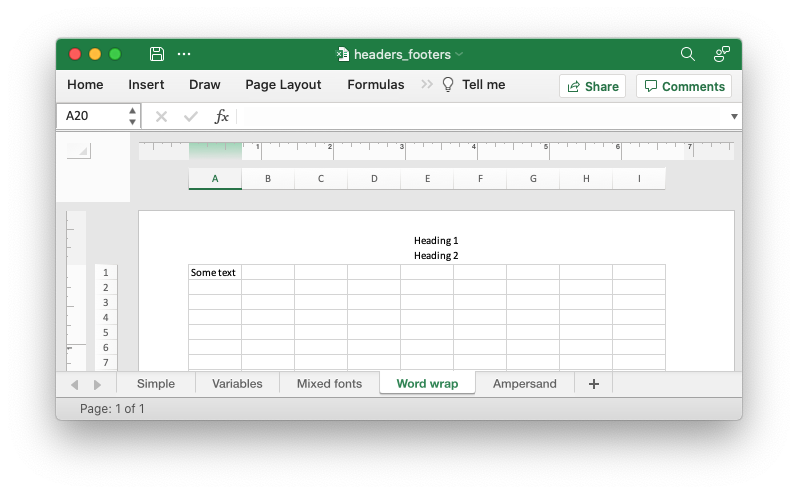
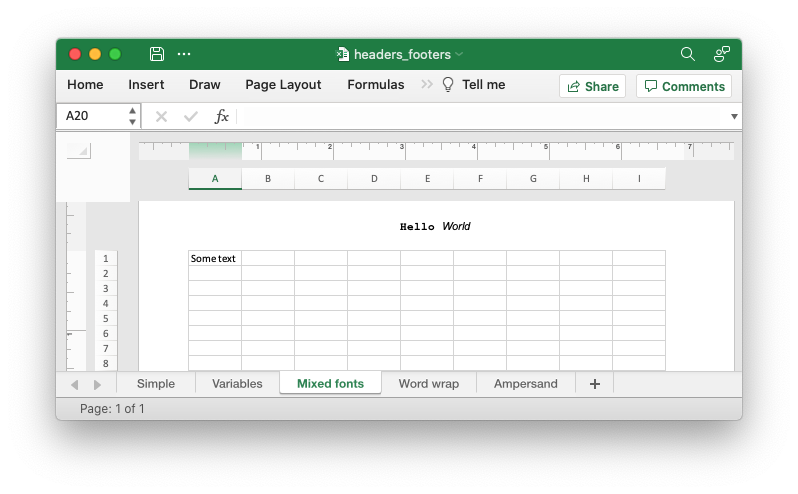
update docs

Changed region(s): [[0.1504, 0.3947, 0.9323, 0.8198], [0.1203, 0.668, 0.1504, 0.7287], [0.1203, 0.5162, 0.1504, 0.5466]]

diff --git a/src/examples/headers.md b/src/examples/headers.md
@@ -4,13 +4,16 @@
 This program shows several examples of how to set up worksheet headers and footers.
 
 
-Here are some examples from the code and the relevant Excel output:
+Here are some examples from the code and the relevant Excel output.
+
+Some simple text:
 
 ```rust
 {{#rustdoc_include ../../../rust_xlsxwriter/examples/app_headers_footers.rs:24}}
 ```
 ![Image 1 of output from app_headers_footers.rs](../../images/app_header_example1.png)
 
+An example with variables:
 
 ```rust
 {{#rustdoc_include ../../../rust_xlsxwriter/examples/app_headers_footers.rs:35}}
@@ -18,22 +21,34 @@ Here are some examples from the code and the relevant Excel output:
 ![Image 2 of output from app_headers_footers.rs](../../images/app_header_example2.png)
 
 
+An example of setting a header image:
+
 ```rust
-{{#rustdoc_include ../../../rust_xlsxwriter/examples/app_headers_footers.rs:45}}
+{{#rustdoc_include ../../../rust_xlsxwriter/examples/app_headers_footers.rs:49:50}}
 ```
 ![Image 3 of output from app_headers_footers.rs](../../images/app_header_example3.png)
 
 
+An example of how to use more than one font:
+
 ```rust
-{{#rustdoc_include ../../../rust_xlsxwriter/examples/app_headers_footers.rs:53}}
+{{#rustdoc_include ../../../rust_xlsxwriter/examples/app_headers_footers.rs:62}}
 ```
 ![Image 4 of output from app_headers_footers.rs](../../images/app_header_example4.png)
 
+An example of line wrapping:
 
 ```rust
-{{#rustdoc_include ../../../rust_xlsxwriter/examples/app_headers_footers.rs:64}}
+{{#rustdoc_include ../../../rust_xlsxwriter/examples/app_headers_footers.rs:72}}
 ```
 ![Image 5 of output from app_headers_footers.rs](../../images/app_header_example5.png)
+
+An example of inserting a literal ampersand &:
+
+```rust
+{{#rustdoc_include ../../../rust_xlsxwriter/examples/app_headers_footers.rs:81}}
+```
+![Image 6 of output from app_headers_footers.rs](../../images/app_header_example6.png)
 
 And here is the full code for the example:
 

diff --git a/src/formulas/dynamic_arrays.md b/src/formulas/dynamic_arrays.md
@@ -163,3 +163,50 @@ following formula:
 ```rust
 {{#rustdoc_include ../../../rust_xlsxwriter/examples/app_dynamic_arrays.rs:204}}
 ```
+
+## The Excel 365 LAMBDA() function
+
+Recent versions of Excel 365 have introduced a powerful new function/feature
+called `LAMBDA()`. This is similar to closure expressions in Rust or [lambda
+expressions]
+(https://docs.microsoft.com/en-us/cpp/cpp/lambda-expressions-in-cpp?view=msvc-160)
+in C++ (and other languages).
+
+Consider the following Excel example which converts the variable `temp` from
+Fahrenheit to Celsius:
+
+```
+    LAMBDA(temp, (5/9) * (temp-32))
+```
+
+This could be called in Excel with an argument:
+
+```
+    =LAMBDA(temp, (5/9) * (temp-32))(212)
+```
+
+Or assigned to a defined name and called as a user defined function:
+
+```
+    =ToCelsius(212)
+```
+
+A rust xlsxwriter example that replicates the described Excel functionality is
+shown below:
+
+
+```rust
+{{#rustdoc_include ../../../rust_xlsxwriter/examples/app_lambda.rs:7:}}
+```
+
+Note, that the formula name must have a "_xlfn." prefix and the parameters in
+the `LAMBDA()` function must have a "_xlpm."  prefix for compatibility with how
+the formulas are stored in Excel. These prefixes won't show up in the formula,
+as shown in the image.
+
+Image of the output file:
+
+![Image of output from app_lambda.rs](../../images/app_lambda.png)
+
+The `LET()` function is often used in conjunction with `LAMBDA()` to assign
+names to calculation results.

diff --git a/src/workbook/saving.md b/src/workbook/saving.md
@@ -18,15 +18,8 @@ This will you a simple output file like the following.
 
 ![Image of output from doc_workbook_new.rs](../../images/workbook_new.png)
 
-The file/path string passed to `save()` is converted to a to a [`std::path`]
-internally but you may prefer to work with a Path reference directly in which
-case you can use the [`workbook.save_to_path()`] method:
-
-```rust
-{{#rustdoc_include ../../../rust_xlsxwriter/examples/doc_workbook_save_to_path.rs:15}}
-```
-
-You can also save the xlsx file data to a `Vec<u8>` buffer via the
+The  `save()` method takes a [`std::path`] or path/filename string. You can also
+save the xlsx file data to a `Vec<u8>` buffer via the
 [`workbook.save_to_buffer()`] method:
 
 ```rust
@@ -39,5 +32,4 @@ This can be useful if you intend to stream the data.
 [`std::path`]: https://doc.rust-lang.org/std/path/struct.Path.html
 [`workbook::new()`]: https://docs.rs/rust_xlsxwriter/latest/rust_xlsxwriter/struct.Workbook.html#method.new
 [`workbook.save()`]: https://docs.rs/rust_xlsxwriter/latest/rust_xlsxwriter/struct.Workbook.html#method.save
-[`workbook.save_to_path()`]: https://docs.rs/rust_xlsxwriter/latest/rust_xlsxwriter/struct.Workbook.html#method.save_to_path
 [`workbook.save_to_buffer()`]: https://docs.rs/rust_xlsxwriter/latest/rust_xlsxwriter/struct.Workbook.html#method.save_to_buffer

diff --git a/src/examples/intro.md b/src/examples/intro.md
@@ -7,11 +7,16 @@ the rust_xlsxwriter library.
 - [Feature demo](./demo.md): Demonstrates more features of the library.
 - [Cell formatting](./formatting.md): Demonstrates various formatting options.
 - [Merging cells](./merge_range.md): An example of merge cell ranges.
+- [Autofilters](./autofilter.md): Add an autofilter to a worksheet.
+- [Rich strings](./rich_strings.md): Add multi-font "rich" strings to a worksheet.
 - [Format colors](./colors.md): Creates a palette of the available colors.
 - [Hyperlinks](./hyperlinks.md): Add hyperlinks to a worksheet.
 - [Insert images](./images.md): Add images to a worksheet.
 - [Right to left display](./right_to_left.md): Sets a worksheet into right to left format.
+- [Defined names](./defined_names.md): How to use user defined variable names in worksheets.
 - [Dynamic array formulas](./dynamic_arrays.md): Examples of dynamic arrays and formulas.
+- [Excel LAMBDA() function](./lambda.md): Example of using the Excel 365+ LAMBDA() function.
 - [Headers and Footers](./headers.md): Shows how to set headers and footers.
+- [Adding a watermark](./watermark.md): Adding a watermark to a worksheet by adding an image to the header.
 - [Freeze Panes](./panes.md): Example of setting freeze panes in worksheets.
 - [Autofitting Columns](./autofit.md): Example of autofitting column widths.

diff --git a/src/tutorial/tutorial1.md b/src/tutorial/tutorial1.md
@@ -69,7 +69,7 @@ We then add a formula to calculate the total of the items in the second column:
 ```
 
 Finally, we save and close the Excel file via the [`workbook.save()`] method
-which take a path/filename string as an argument:
+which take a [`std::path`] Path or filename string as an argument:
 
 [`workbook.save()`]: https://docs.rs/rust_xlsxwriter/latest/rust_xlsxwriter/struct.Workbook.html#method.save
 
@@ -80,11 +80,10 @@ which take a path/filename string as an argument:
 
 This will give us the spreadsheet shown in the image above.
 
-It is also possible to save to a [`std::path`] Path  or a byte vector using the
-[`workbook.save_to_path()`] and [`workbook.save_to_buffer()`] methods.
+It is also possible to save to a byte vector using
+[`workbook.save_to_buffer()`].
 
-We will look at file saving options in the section on TODO.
+We will look at file saving options in the section on [Creating and saving an xlsx file](../workbook/saving.md).
 
 [`std::path`]: https://doc.rust-lang.org/std/path/struct.Path.html
-[`workbook.save_to_path()`]: https://docs.rs/rust_xlsxwriter/latest/rust_xlsxwriter/struct.Workbook.html#method.save_to_path
 [`workbook.save_to_buffer()`]: https://docs.rs/rust_xlsxwriter/latest/rust_xlsxwriter/struct.Workbook.html#method.save_to_buffer

diff --git a/src/worksheet/headers.md b/src/worksheet/headers.md
@@ -31,6 +31,7 @@ The available control characters are:
 | `&S`                 |               | Strikethrough         |
 | `&X`                 |               | Superscript           |
 | `&Y`                 |               | Subscript             |
+| `&[Picture]` or `&G` | Images        | Picture/image         |
 | `&&`                 | Miscellaneous | Literal ampersand &   |
 
 Some of the placeholder variables have a long version like `&[Page]` and a short
@@ -82,6 +83,17 @@ Times and dates are in the user's default format:
 worksheet.set_header("&CUpdated at &[Time]");
 ```
 ![Image of worksheet header](../images/header06.png)
+
+To insert an image in use `&[Picture]` or `&G`. You will also need to use
+`set_header_image()` to set the corresponding image:
+
+```rust
+worksheet.set_header("&C&[Picture]");
+
+let image = Image::new("examples/watermark.png")?;
+worksheet.set_header_image(&image, XlsxImagePosition::Center);
+```
+![Image of worksheet header](../images/header10.png)
 
 To include a single literal ampersand `&` in a header or footer you
 should use a double ampersand `&&`:

diff --git a/src/SUMMARY.md b/src/SUMMARY.md
@@ -41,12 +41,17 @@
     - [Feature demo](examples/demo.md)
     - [Cell formatting](examples/formatting.md)
     - [Merging cells](examples/merge_range.md)
+    - [Adding Autofilters](examples/autofilter.md)
+    - [Rich strings](examples/rich_strings.md)
     - [Format colors](examples/colors.md)
     - [Hyperlinks](examples/hyperlinks.md)
     - [Inserting images](examples/images.md)
     - [Right to left display](examples/right_to_left.md)
+    - [Using defined names](examples/defined_names.md)
     - [Dynamic array formulas](examples/dynamic_arrays.md)
+    - [Excel LAMBDA() function](examples/lambda.md)
     - [Headers and Footers](examples/headers.md)
+    - [Adding a watermark](examples/watermark.md)
     - [Freeze Panes](examples/panes.md)
     - [Autofitting columns](examples/autofit.md)
 

diff --git a/src/examples/defined_names.md b/src/examples/defined_names.md
@@ -1,0 +1,21 @@
+# Using defined names
+
+Example of how to create defined names using the `rust_xlsxwriter` library.
+
+This functionality is used to define user friendly variable names to represent a
+value, a single cell,  or a range of cells in a workbook.
+
+**Images of the output file:**
+
+![Image 1 of output from app_defined_name.rs](../../images/app_defined_name1.png)
+
+Here is the output in the Excel Name Manager. Note that there is a
+Global/Workbook "Sales" variable name and a Local/Worksheet version.
+
+![Image 2 of output from app_defined_name.rs](../../images/app_defined_name2.png)
+
+**Code to generate the output file:**
+
+```rust
+{{#rustdoc_include ../../../rust_xlsxwriter/examples/app_defined_name.rs:9:}}
+```

diff --git a/src/examples/autofilter.md b/src/examples/autofilter.md
@@ -1,0 +1,20 @@
+# Adding Autofilters
+
+An example of how to create autofilters with the rust_xlsxwriter library..
+
+An autofilter is a way of adding drop down lists to the headers of a 2D range of
+worksheet data. This allows users to filter the data based on simple criteria so
+that some data is shown and some is hidden.
+
+Note, adding filter criteria isn't currently supported. That will be added in an
+upcoming version.
+
+**Image of the output file:**
+
+![Image of output from app_autofilter.rs](../../images/app_autofilter1.png)
+
+**Code to generate the output file:**
+
+```rust
+{{#rustdoc_include ../../../rust_xlsxwriter/examples/app_autofilter.rs:14:33}}
+```

diff --git a/src/examples/watermark.md b/src/examples/watermark.md
@@ -1,0 +1,18 @@
+# Adding a watermark
+
+
+An example of adding a worksheet watermark image. This is based on the method of
+putting an image in the worksheet header as suggested in the [Microsoft
+documentation].
+
+[Microsoft documentation]: https://support.microsoft.com/en-us/office/add-a-watermark-in-excel-a372182a-d733-484e-825c-18ddf3edf009
+
+**Image of the output file:**
+
+![Image of output from app_images.rs](../../images/app_watermark.png)
+
+**Code to generate the output file:**
+
+```rust
+{{#rustdoc_include ../../../rust_xlsxwriter/examples/app_watermark.rs:7:}}
+```

diff --git a/src/examples/lambda.md b/src/examples/lambda.md
@@ -1,0 +1,16 @@
+# Excel LAMBDA() function
+
+An example of using the new Excel `LAMBDA()` function with the rust_xlsxwriter
+library.
+
+See also [The Excel 365 LAMBDA() function](../formulas/dynamic_arrays.md#the-excel-365-lambda-function).
+
+**Image of the output file:**
+
+![Image of output from app_lambda.rs](../../images/app_lambda.png)
+
+**Code to generate the output file:**
+
+```rust
+{{#rustdoc_include ../../../rust_xlsxwriter/examples/app_lambda.rs:7:}}
+```

diff --git a/src/examples/rich_strings.md b/src/examples/rich_strings.md
@@ -1,0 +1,13 @@
+# Rich strings
+
+An example of writing "rich" multi-format strings to worksheet cells.
+
+**Image of the output file:**
+
+![Image of output from app_rich_strings.rs](../../images/app_rich_strings.png)
+
+**Code to generate the output file:**
+
+```rust
+{{#rustdoc_include ../../../rust_xlsxwriter/examples/app_rich_strings.rs:7:}}
+```
